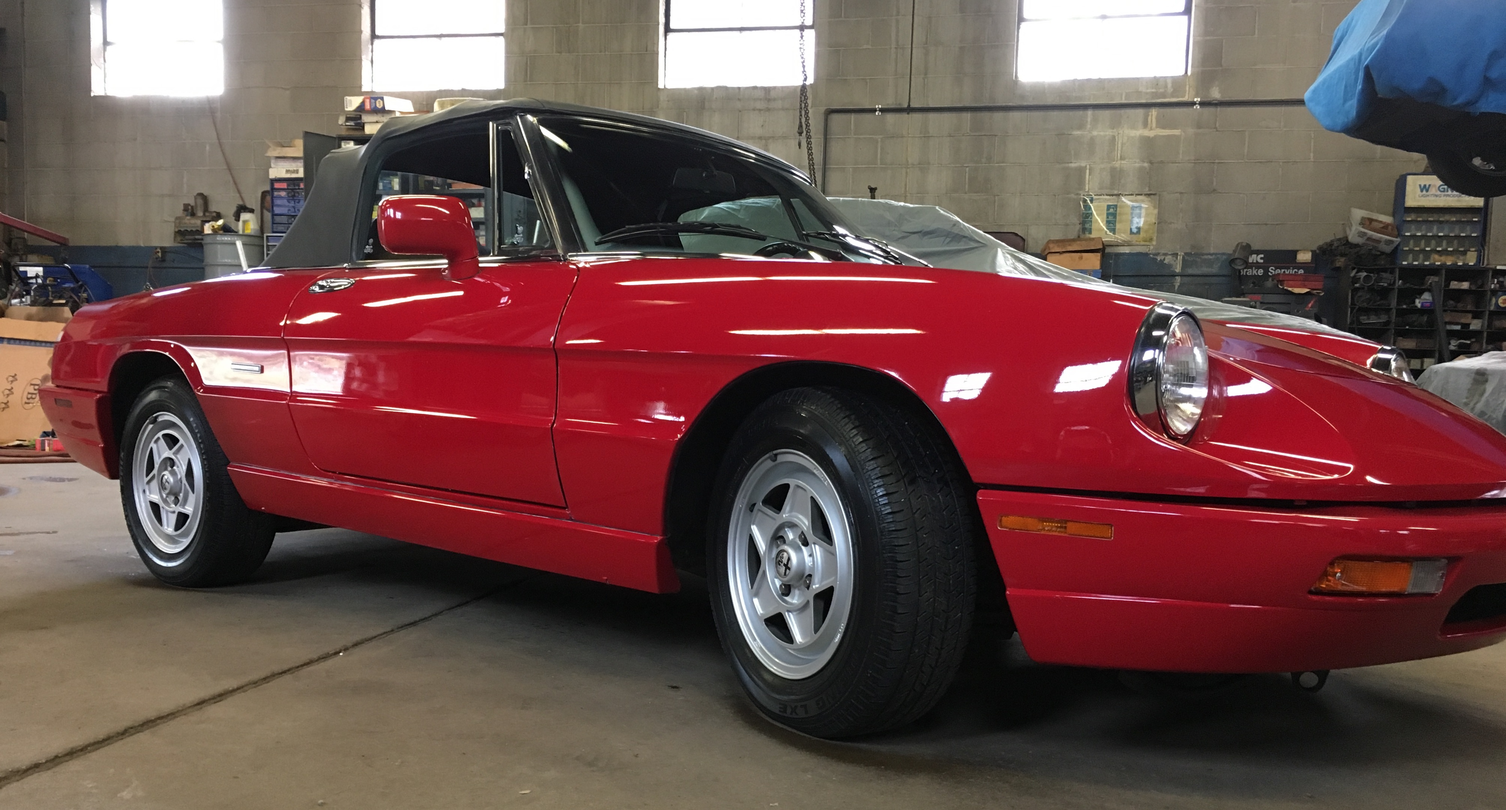
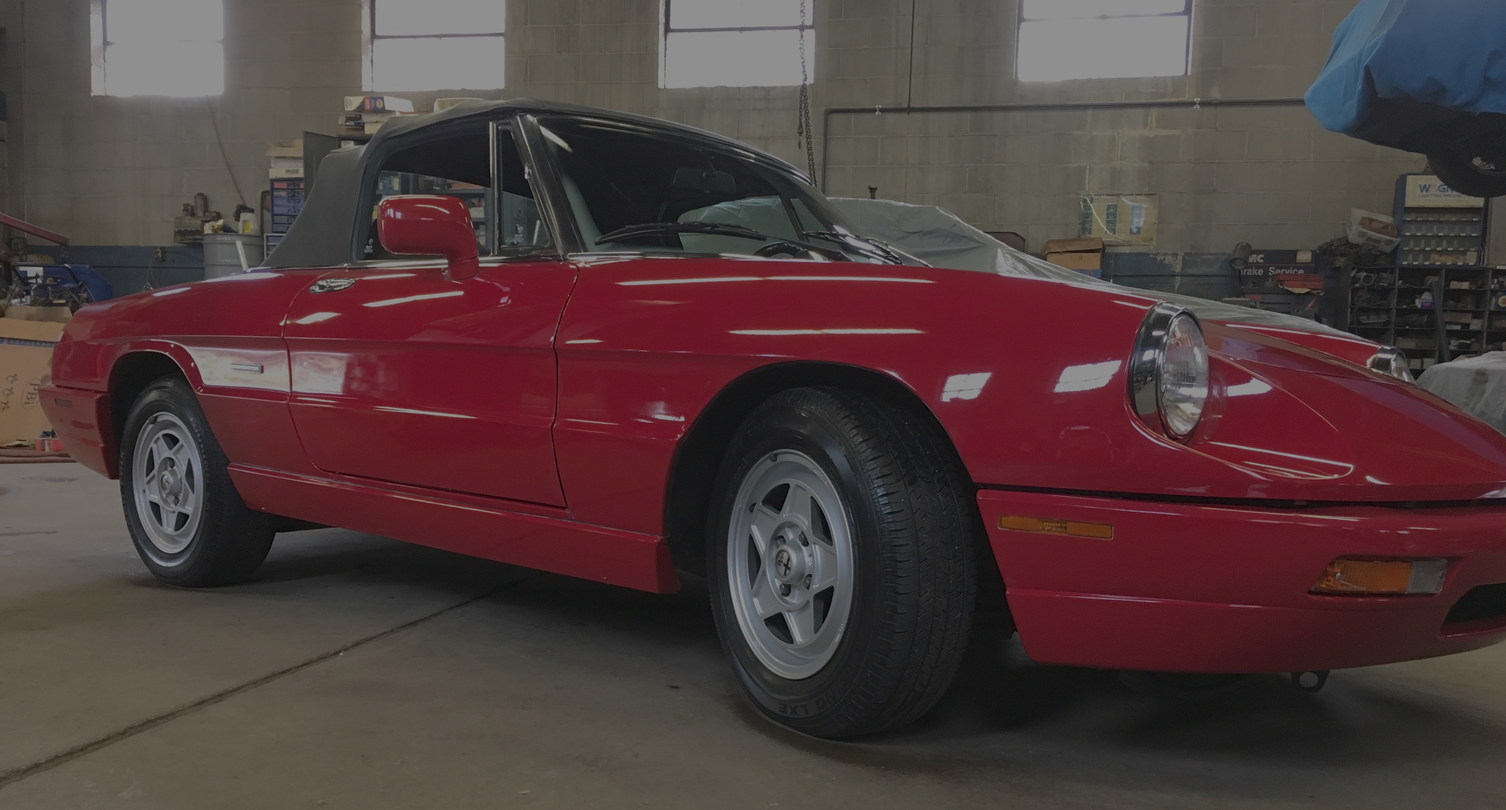
recent clients

diff --git a/app/assets/stylesheets/home.scss b/app/assets/stylesheets/home.scss
@@ -4,42 +4,58 @@
 .page {
 	padding: 0;
 }
-
-// #recentclients {
-// 	background-color: rgba(0,0,0,.9);
-// 	.row {
-// 		width: 100%;
-// 	}
-// 	h1 {
-// 		margin: 80px auto 40px auto;
-// 		font-weight: 900;
-// 		// font-size: 40px;
-// 		color: white;
-// 	}
-// 	#gallery {
-// 		max-height: 40%;
-// 		// padding: 10%;
-// 		text-align: center;
-// 		.mySlides {
-// 			display: none;
-// 		  margin: 20px 0;
-// 		  padding: 50px;
-// 		  img {
-// 		  	max-height: 90%;
-// 				// margin-top: 50px;
-// 				max-width: 90%;
-// 				display: inline-block;
-// 		  }
-// 		  h5 {
-// 		  	// width: 100%;
-// 		  	text-align: center;
-// 		  	padding: 5%;
-// 		  	display: inline-block;
-// 		  	color: white;
-// 		  }
-// 		}
-// 	}
-// }
+#recentclients {
+	background-image: image-url('/assets/IMG_3336.JPG');
+  background-position: center;
+  background-repeat: no-repeat;
+  background-size: cover;
+  .tint {
+  	background-color: rgba(0,0,0,.3);
+  }
+	h1 {
+		margin: 40px auto 20px auto;
+		width: 300px;
+		text-align: center;
+		font-weight: 900;
+		text-shadow: 1px 1px darkgrey;
+	}
+	#gallery {
+		height: 300px;
+		text-align: center;
+		.mySlides {
+			width: 100%;
+			display: none;
+		  margin: 20px 0;
+		  padding: 20px;
+		  img {
+		  	height: 200px;
+				max-width: 100%;
+		  }
+		  p {
+		  	text-align: center;
+		  	padding: 20px;
+		  	width: 100%;
+		  	font-size: 15px;
+		  	font-weight: 900;
+		  	background-color: rgba(250,250,250,.6);
+		  }
+		  h5 {
+		  	text-align: right;
+		  	padding-right: 120px;
+		  	padding-bottom: 20px;
+		  	width: 100%;
+		  	background-color: rgba(250,250,250,.6);
+		  	margin: 0;
+		  }
+		  .button {
+		  	background-color: rgba(250,250,250,.3);
+		  	&:hover {
+		  		background-color: rgba(250,250,250,.6);
+		  	}
+		  }
+		}
+	}
+}
 
 	
 

diff --git a/app/controllers/home_controller.rb b/app/controllers/home_controller.rb
@@ -1,5 +1,7 @@
 class HomeController < ApplicationController
 	def index
 		@homepage = true
+		# @review = Review.find(params[:review_id])
+		@reviews = Review.order("created_at desc").limit(4)
 	end
 end
